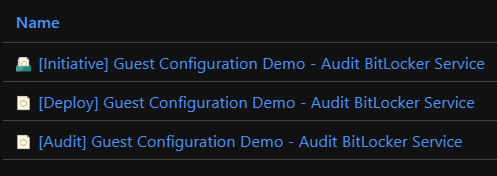
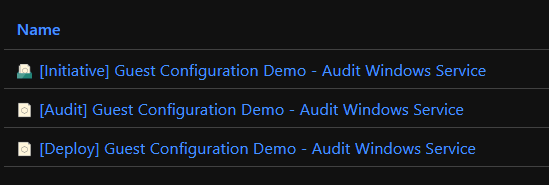
Change policy naming to Windows Services and add second parameter set

diff --git a/README.md b/README.md
@@ -6,23 +6,23 @@ After executing the script line by line, you will have a Policy Initiative that 
 
 ![](/Images/GuestConfigurationPolicyCreated.png)
 
+If you assign the initiative, you will see the two parameters that you can specify. Tip: if you want to monitor multiple services, just change the assignment name into something like `[Initiative] Guest Configuration Demo - Audit Windows Service 'winrm'`.
+
+![](/Images/GuestConfigurationParameters.png)
+
+Make sure to select the remediation task. Otherwise the prerequisites won't be deployed.
+
+![](/Images/GuestConfigurationRemediationTasks.png)
+
 If you create a Virtual Machine and assign the policy (including the remediation task) to a Virtual Machine, it will look like this first:
+
+![](/Images/GuestConfigurationStatus-Initial.png)
+
+After a couple of minutes it will look like this:
 
 ![](/Images/GuestConfigurationStatus-Compliant.png)
 
-You think it's compliant, but it's not. The system needs some time to install the Guest Configuration Policy on the machine. After a coupl of minutes, the deploy policy should be compliant while the Audit policy is still evaluating. 
-
-![](/Images/GuestConfigurationStatus-Pending.png)
-
-If you drill down on the policy, you can click on the compliance reason details (important: don't click the row but the button!)
-
-![](/Images/GuestConfigurationStatus-ComplianceReason.png)
-
-Now it all makes sense. Because the policy is still evaluating, the compliance status is also still 'Pending' and not 'Compliant'.
-
-![](/Images/GuestConfigurationStatus-PendingStatus.png)
-
-If you logon on the Virtual Machine, you will see that a new log directory was created. If you open this log and search for "AuditBitLocker", you'll see why a resource is compliant or not. This status will also be reported back to Azure Guest Configuration so you can see it in the Azure Portal.
+If you logon on the Virtual Machine, you will see that a new log directory was created. If you open this log and search for "AuditWindowsService", you'll see why a resource is compliant or not. This status will also be reported back to Azure Guest Configuration so you can see it in the Azure Portal.
 
 ![](/Images/GuestConfigurationStatus-LogFiles.png)
 
@@ -37,6 +37,4 @@ Get-Service winrm | Stop-Service
 Get-Service winrm | Set-Service -StartupType Disabled
 ````
 
-To quickly trigger the Azure Policy engine, you can create a tag on the VM and remove it so that the Azure Policy engine registers a change on the resource. Give it a couple of minutes and keep an eye on the `gc_worker.log` file again.
-
-![](/Images/GuestConfigurationStatus-FailLog.png)
+To quickly trigger the Azure Policy engine, you can create a tag on the VM and remove it so that the Azure Policy engine registers a change on the resource. Give it a couple of minutes and keep an eye on the `gc_worker.log` file again. It should report `"complianceStatus": false` soon.
